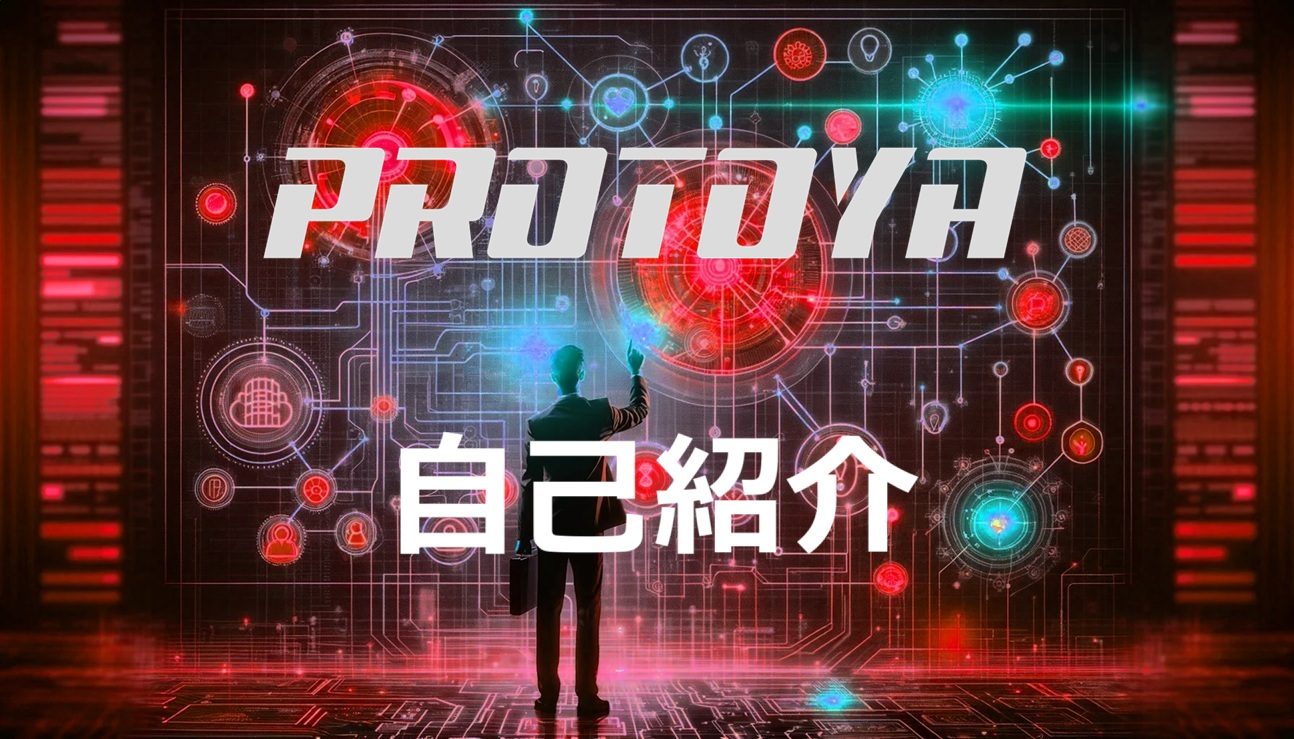
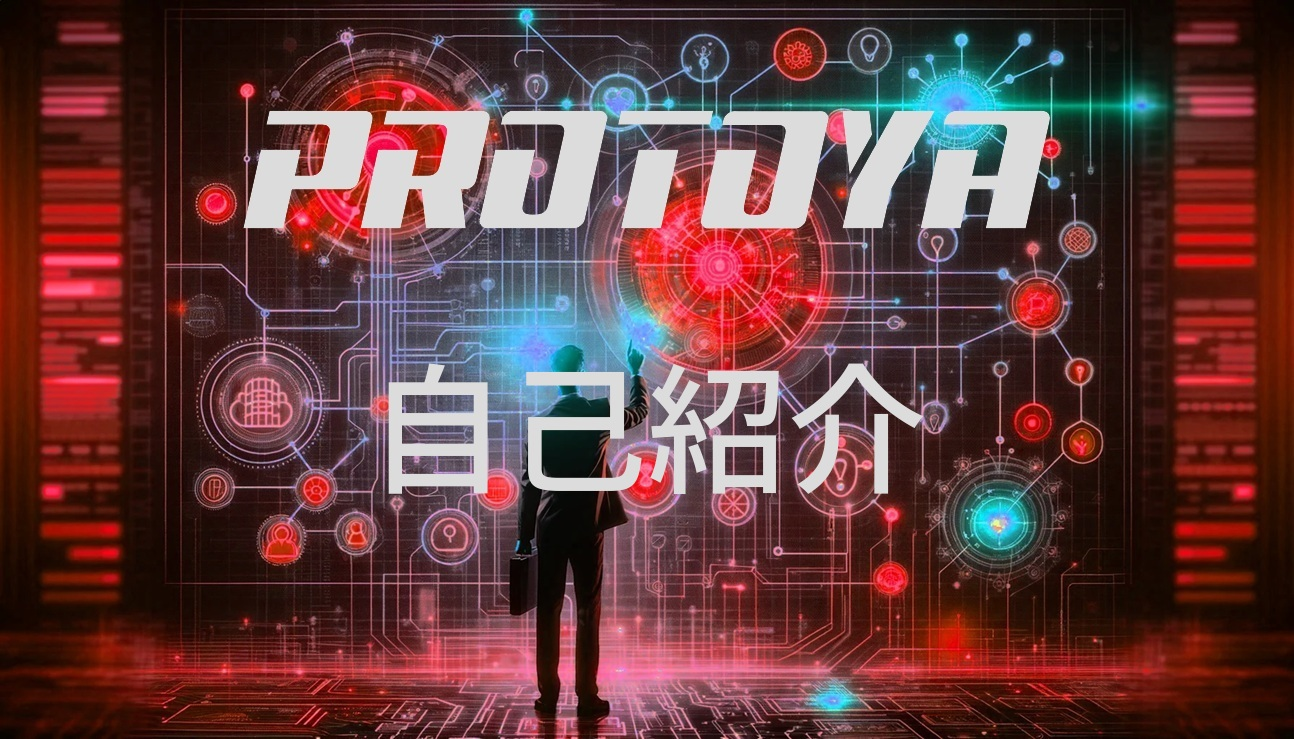
OGP画像の作り方を追加

Changed region(s): [[0.1855, 0.1245, 0.8346, 0.3735], [0.2782, 0.498, 0.711, 0.747]]

diff --git a/docs/tech-notes/how-to-make-ogp-image.md b/docs/tech-notes/how-to-make-ogp-image.md
@@ -1,0 +1,80 @@
+# OGP画像の作り方
+
+- 画像を作る際、位置をきっちり合わせたキャプションを合成するため、CLIで画像を作る。
+- 背景画像にロゴやキャプションを乗せる。
+- 画像合成にはImageMagicを使用する。
+- 環境 : WSL2 Ubuntu 24.04
+
+## imagemagicインストール
+```
+sudo apt-get install imagemagick
+```
+
+## フォント
+- [Google Fontsを利用](https://fonts.google.com/selection)
+- ExplorerでWSLのユーザーHomeにコピー
+- ubuntuのフォント置き場に移動
+``` bash
+sudo mv ~/*.ttf /usr/share/fonts/truetype/noto/
+```
+## タイトル title.jpg
+``` bash
+cd ~/protoya-mkdocs/docs/ogp/
+# ロゴのサイズを調整してpngに変換
+convert -background none -density 250 ../images/protoya-logo-white.svg logo.png 
+# ベースとロゴを合成
+convert base.jpg logo.png -background none -gravity center -compose over -composite title.jpg 
+# ロゴpngを削除
+rm logo.png 
+```
+
+## 業務事例 case.jpg
+``` bash
+cd ~/protoya-mkdocs/docs/ogp/
+# ロゴのサイズを調整してpngに変換
+convert -background none -density 250 ../images/protoya-logo-white.svg logo.png 
+# ベースとロゴを合成 ロゴは200上に
+convert base.jpg logo.png -background none -gravity center -geometry +0-200 -compose over -composite case.jpg
+# キャプション文字列画像
+convert -font /usr/share/fonts/truetype/noto/NotoSansJP-Medium.ttf \
+  -size 1200x400 -gravity north \
+  -fill "#DCDCDC" -background none -pointsize 140 caption:"業務事例" caption.png
+# キャプションを合成 キャプションは150下に
+convert case.jpg caption.png -background none -gravity center -geometry +0+150 -compose over -composite case.jpg
+# 作業pngを削除
+rm logo.png caption.png
+```
+
+## 自己紹介 case.jpg
+``` bash
+cd ~/protoya-mkdocs/docs/ogp/
+# ロゴのサイズを調整してpngに変換
+convert -background none -density 250 ../images/protoya-logo-white.svg logo.png 
+# ベースとロゴを合成 ロゴは200上に
+convert base.jpg logo.png -background none -gravity center -geometry +0-200 -compose over -composite about.jpg
+# キャプション文字列画像
+convert -font /usr/share/fonts/truetype/noto/NotoSansJP-Medium.ttf \
+  -size 1200x400 -gravity north \
+  -fill "#DCDCDC" -background none -pointsize 140 caption:"自己紹介" caption.png
+# キャプションを合成 キャプションは150下に
+convert about.jpg caption.png -background none -gravity center -geometry +0+150 -compose over -composite about.jpg
+# 作業pngを削除
+rm logo.png caption.png
+```
+
+## 技術ノート case.jpg
+``` bash
+cd ~/protoya-mkdocs/docs/ogp/
+# ロゴのサイズを調整してpngに変換
+convert -background none -density 250 ../images/protoya-logo-white.svg logo.png 
+# ベースとロゴを合成 ロゴは200上に
+convert base.jpg logo.png -background none -gravity center -geometry +0-200 -compose over -composite tech-notes.jpg
+# キャプション文字列画像
+convert -font /usr/share/fonts/truetype/noto/NotoSansJP-Medium.ttf \
+  -size 1200x400 -gravity north \
+  -fill "#DCDCDC" -background none -pointsize 140 caption:"技術ノート" caption.png
+# キャプションを合成 キャプションは150下に
+convert tech-notes.jpg caption.png -background none -gravity center -geometry +0+150 -compose over -composite tech-notes.jpg
+# 作業pngを削除
+rm logo.png caption.png
+```
